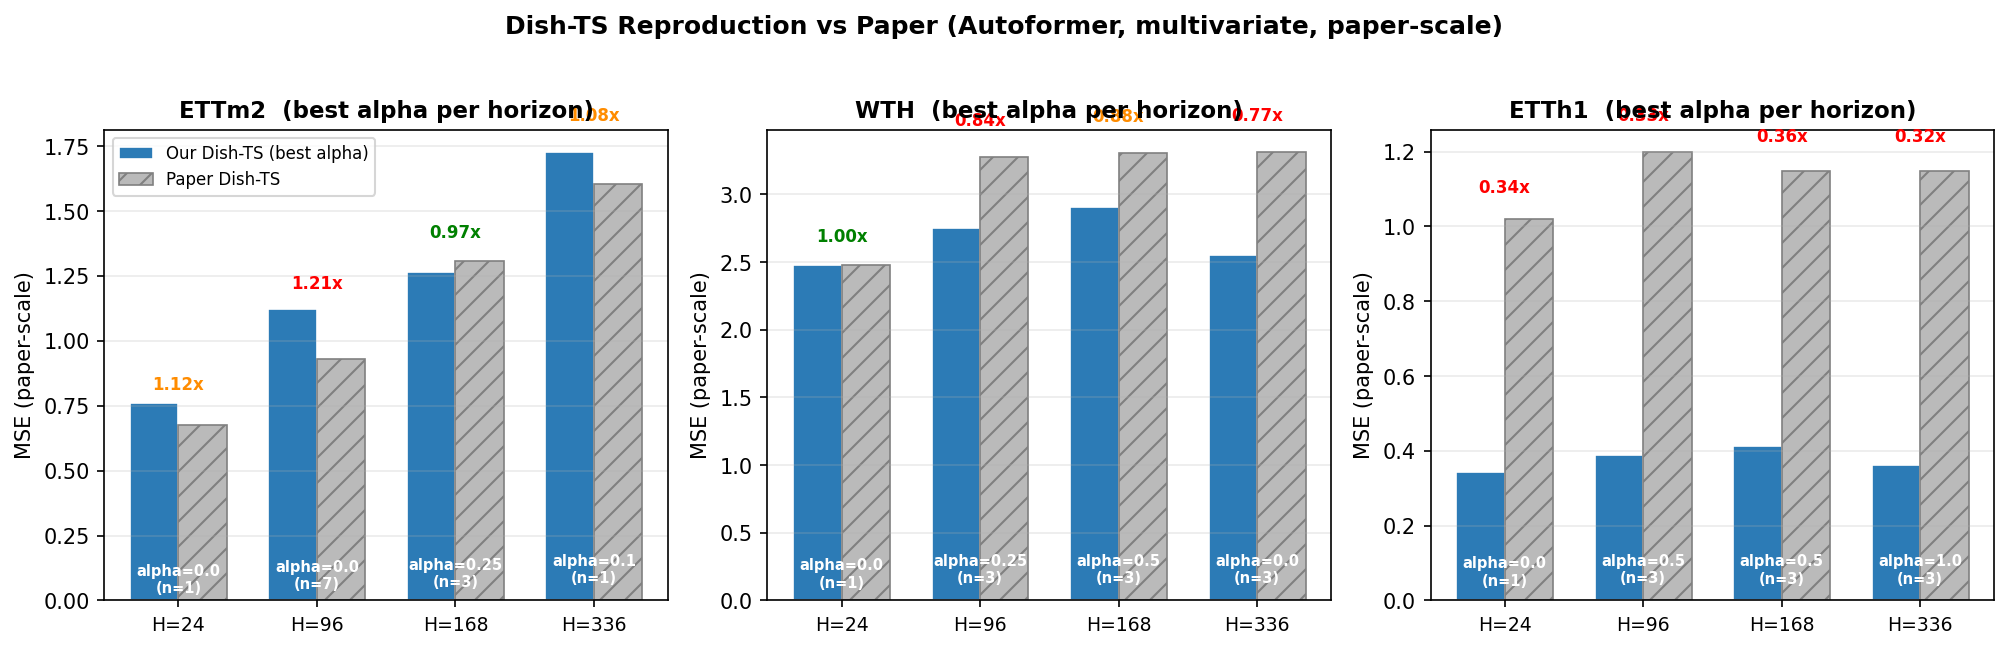
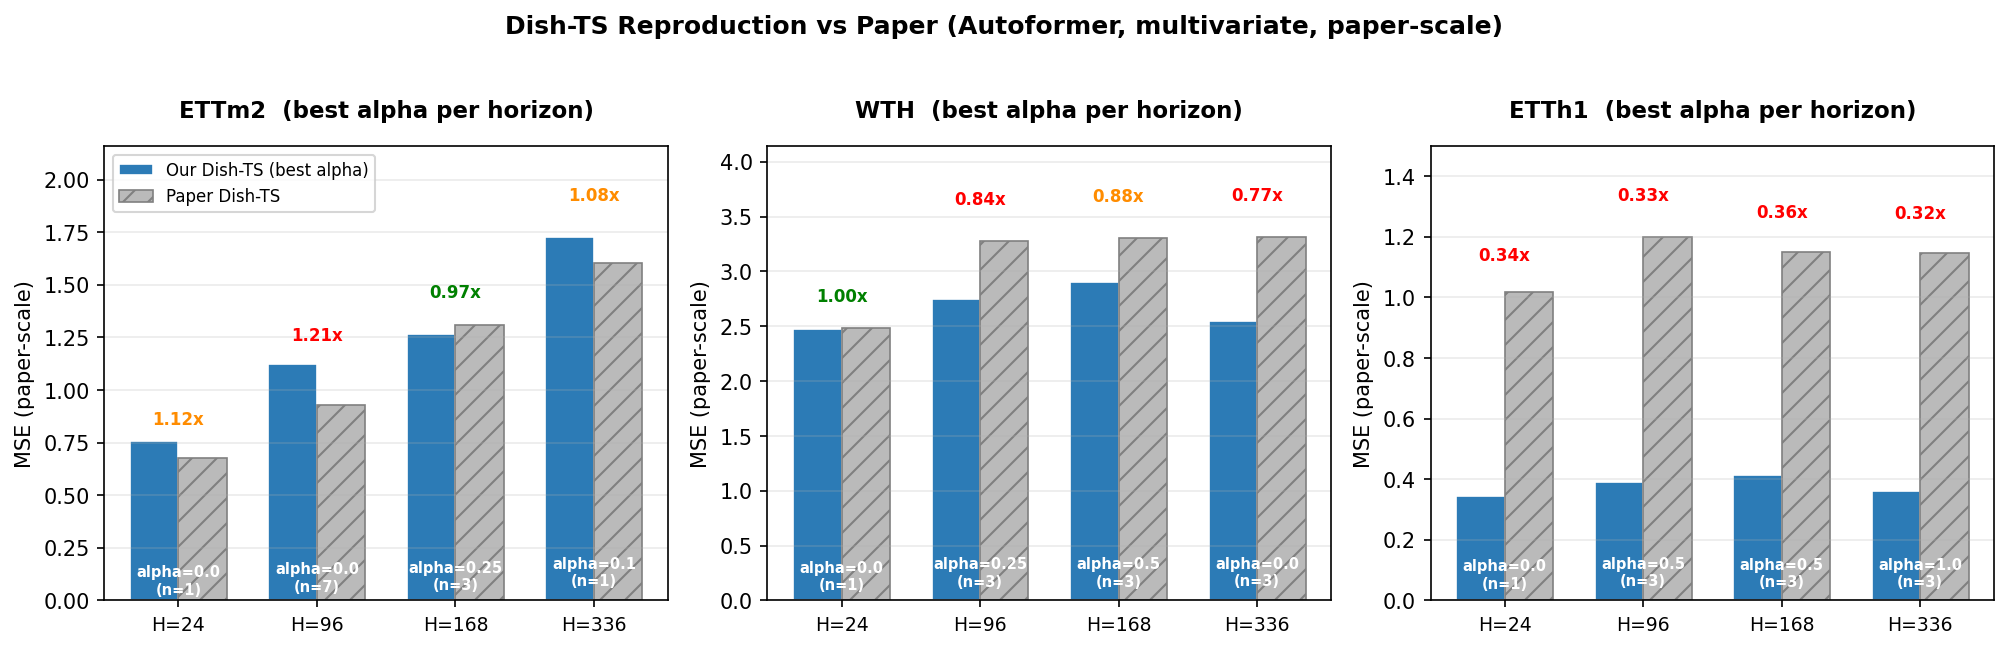
Fix label/title overlap in ppt_dishts_vs_paper: 25% ylim headroom + pad=14 on subplot titles

diff --git a/repro_figures/plot_ppt_comparison.py b/repro_figures/plot_ppt_comparison.py
@@ -246,21 +246,28 @@ def plot_dishts_vs_paper(rows: list[dict]) -> Path:
                        color="#bababa", edgecolor="gray", linewidth=0.8, hatch="//")
 
         # ratio + best alpha labels
+        # Reserve 25% headroom ABOVE the tallest bar so ratio labels never
+        # collide with the subplot title.
+        ymax_axis = max(max(ours_vals + [0.01]), max(paper_vals + [0.01])) * 1.25
+        ax.set_ylim(top=ymax_axis)
         for i, (xi, ov, pv, (best_a, n, rat)) in enumerate(zip(x, ours_vals, paper_vals, annotations)):
             color = "green" if 0.95 <= rat <= 1.05 else ("darkorange" if 0.85 <= rat <= 1.15 else "red")
-            ax.text(xi, max(ov, pv) * 1.07, f"{rat:.2f}x",
+            ax.text(xi, max(ov, pv) * 1.10, f"{rat:.2f}x",
                     ha="center", fontsize=8, fontweight="bold", color=color)
             ax.text(xi, max(ov, pv) * 0.04, f"alpha={best_a}\n(n={n})",
                     ha="center", fontsize=7, color="white", fontweight="bold")
 
         ax.set_xticks(x)
         ax.set_xticklabels(x_labels, fontsize=9)
-        ax.set_title(f"{ds}  (best alpha per horizon)", fontsize=11, fontweight="bold")
+        # Push subplot title higher so it does not collide with ratio labels.
+        ax.set_title(f"{ds}  (best alpha per horizon)", fontsize=11,
+                     fontweight="bold", pad=14)
         ax.set_ylabel("MSE (paper-scale)", fontsize=10)
         ax.grid(axis="y", alpha=0.25)
         if ds == datasets[0]:
             ax.legend(fontsize=8, loc="upper left")
 
+    # Push suptitle high so it does not collide with subplot titles.
     fig.suptitle("Dish-TS Reproduction vs Paper (Autoformer, multivariate, paper-scale)",
                  fontsize=12, fontweight="bold", y=1.02)
     fig.tight_layout()
